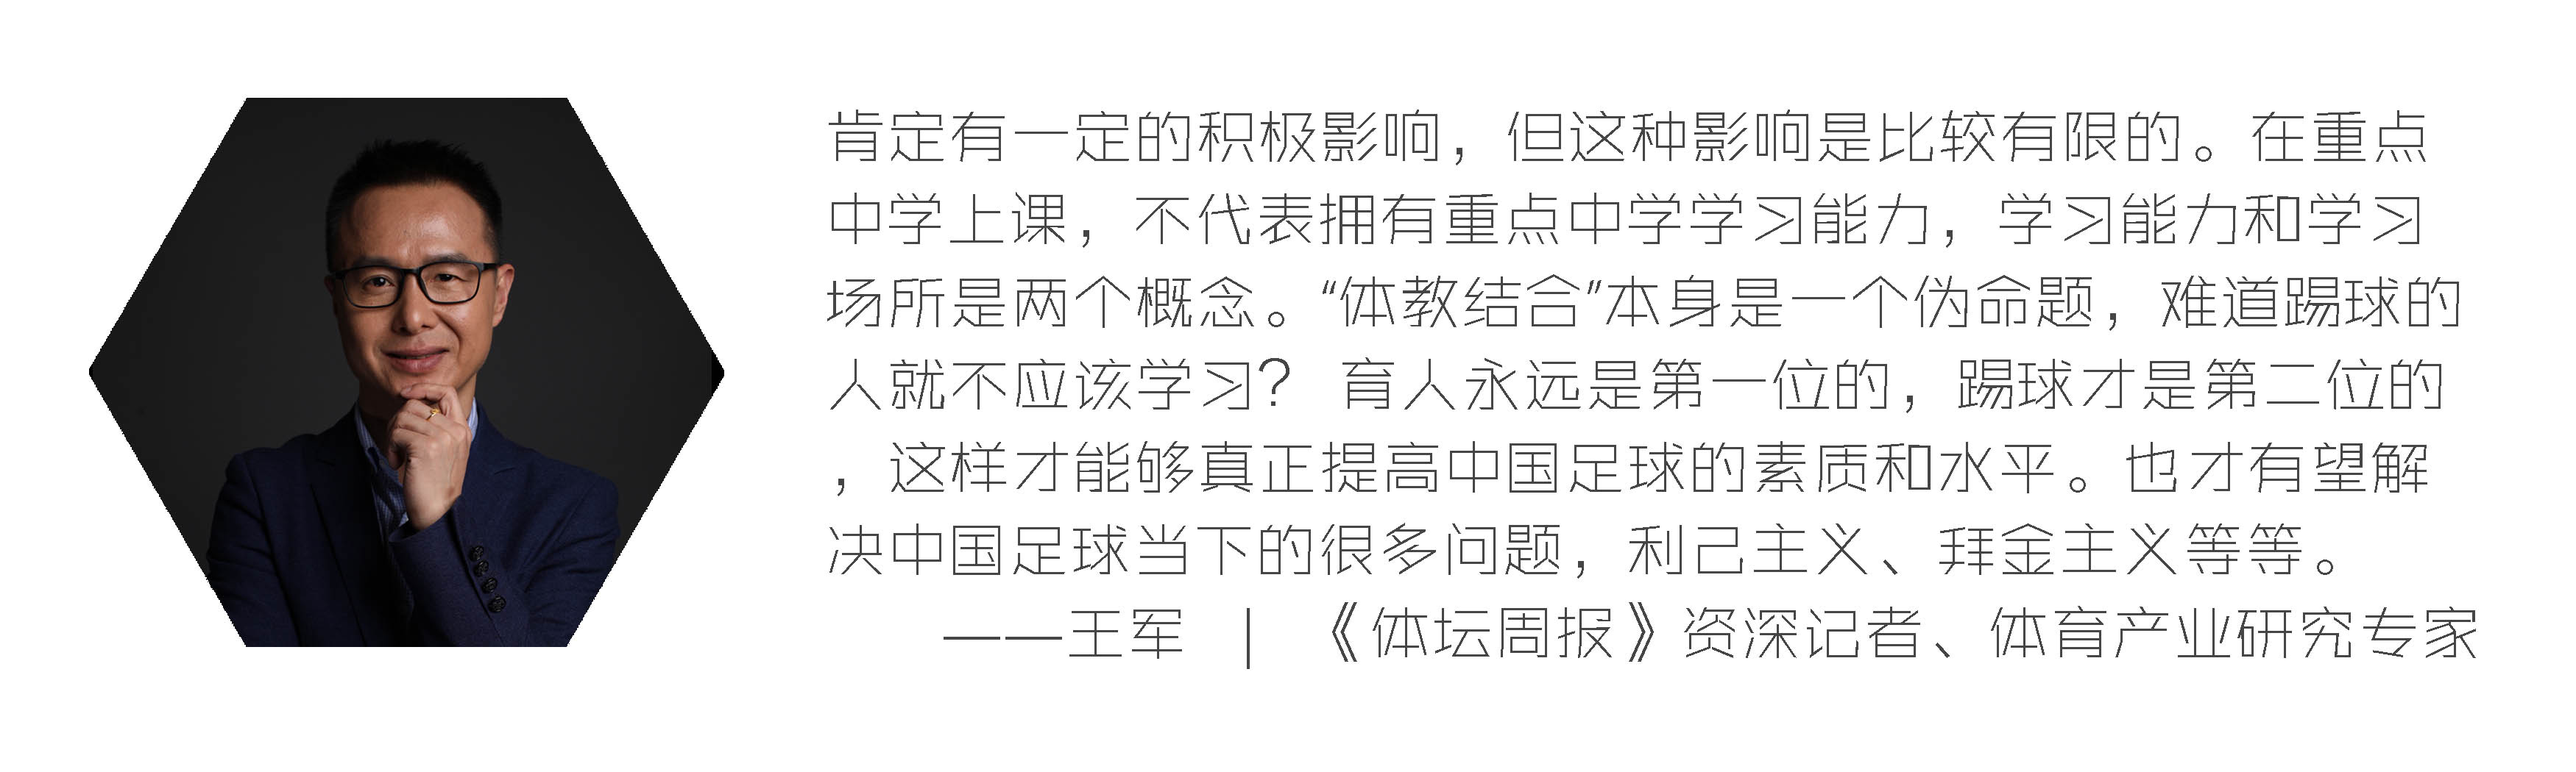
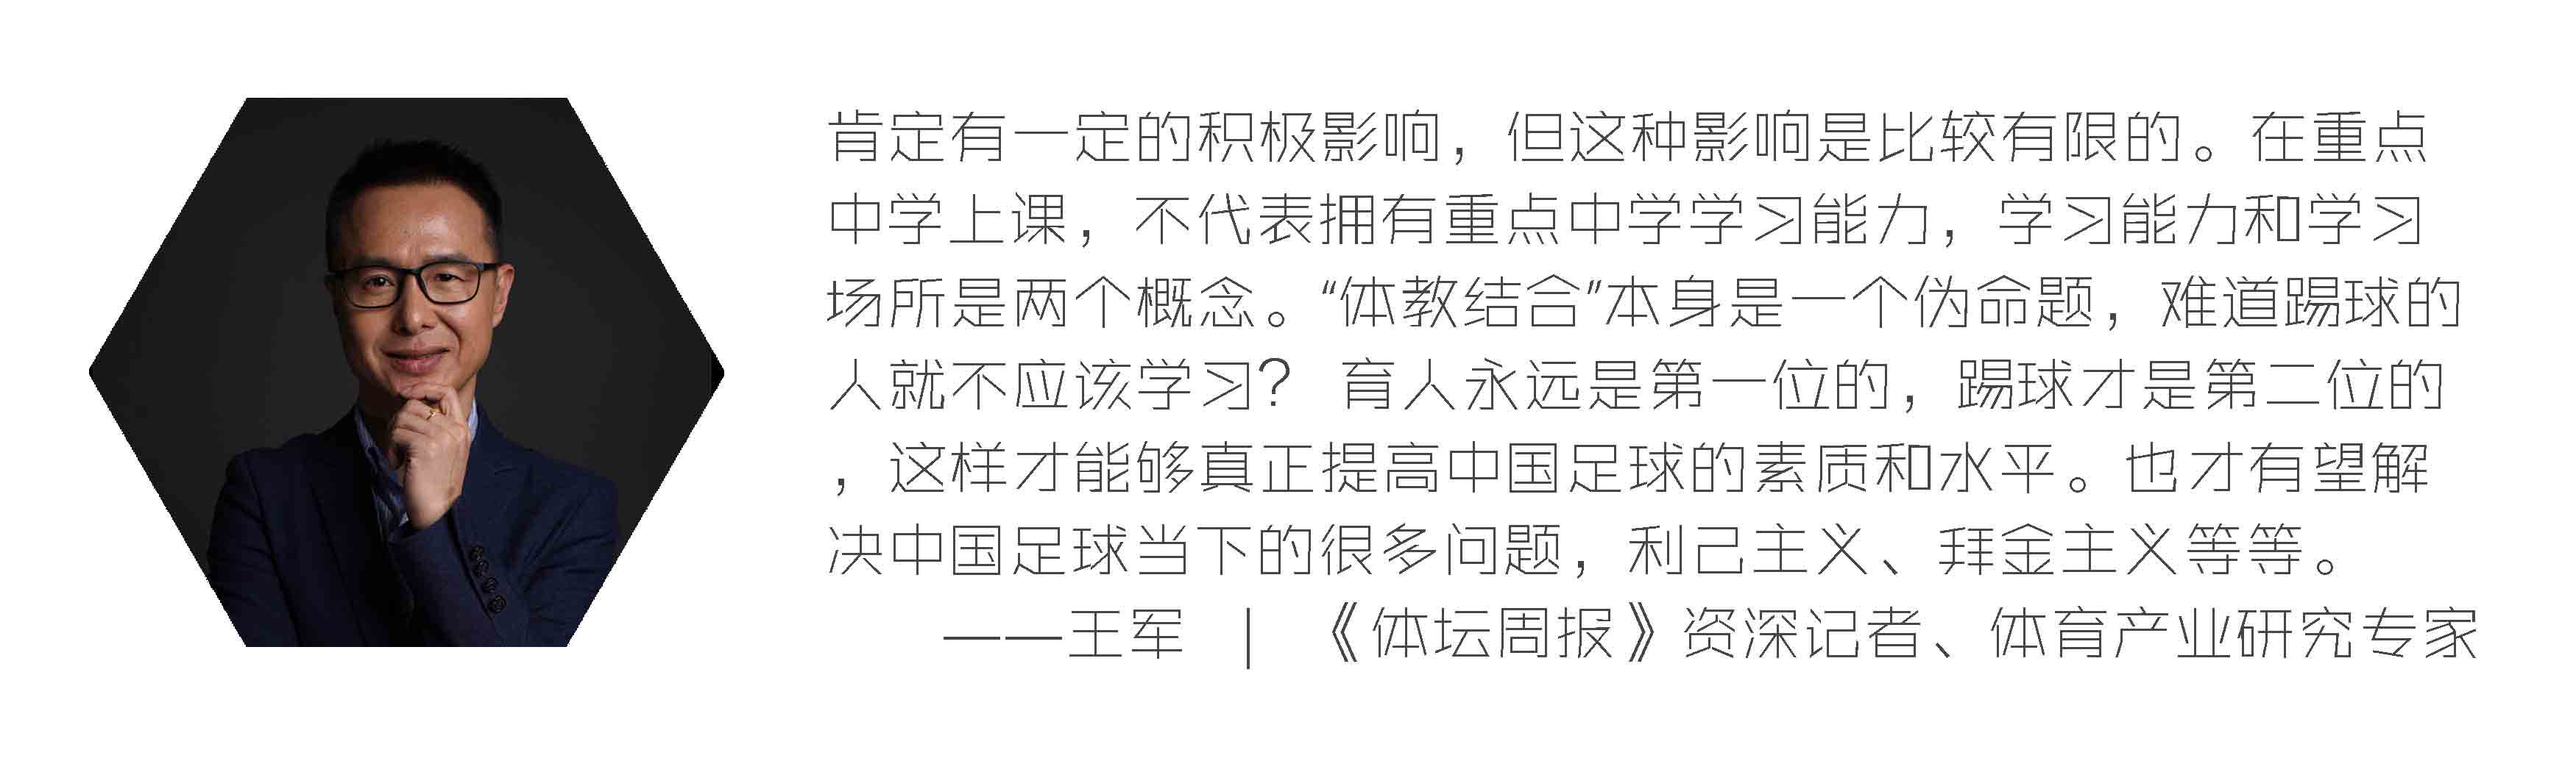
modify

diff --git a/main2.html b/main2.html
@@ -355,7 +355,7 @@ blockquote p {
 							<div  class="pic" >
 									<div class="slider-wrapper2">
 											<div class="slider ">
-												<div style="background-image: url(images/xuexiao1.png)"></div>
+												<div style="background-image: url(images/xuexiao1.jpg)"></div>
 												<div style="background-image: url(images/xuexiao2.jpg)"></div>
 												<div style="background-image: url(images/xuexiao3.jpg)"></div>
 												<div style="background-image: url(images/xuexiao4.jpg)"></div>
